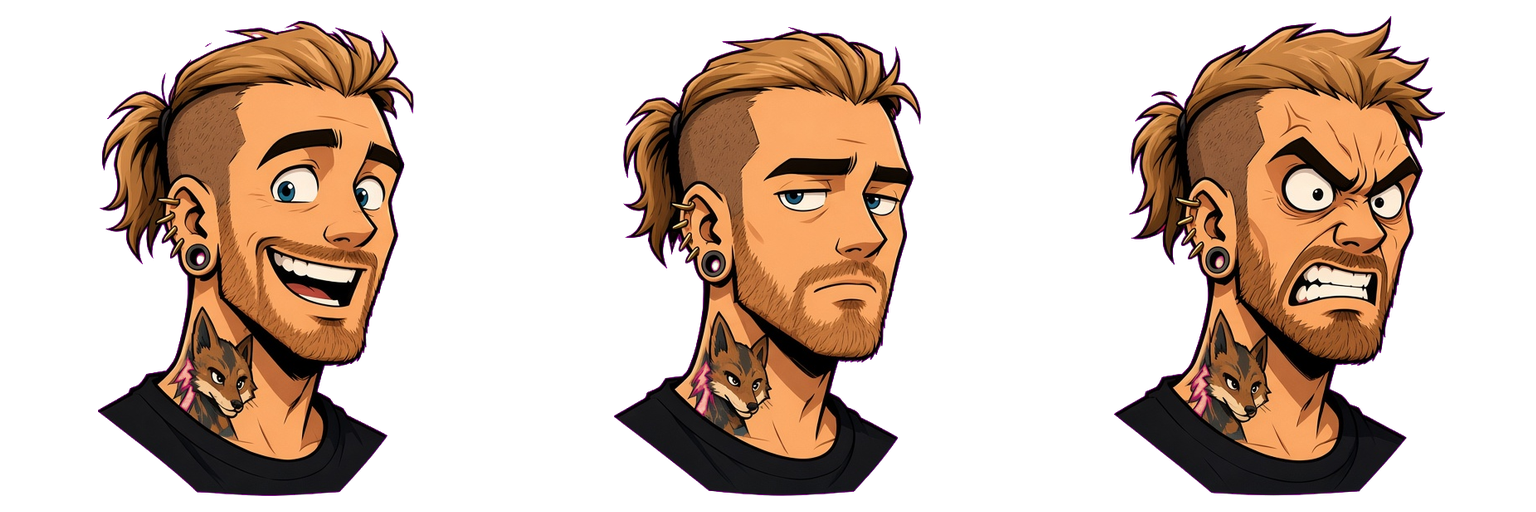
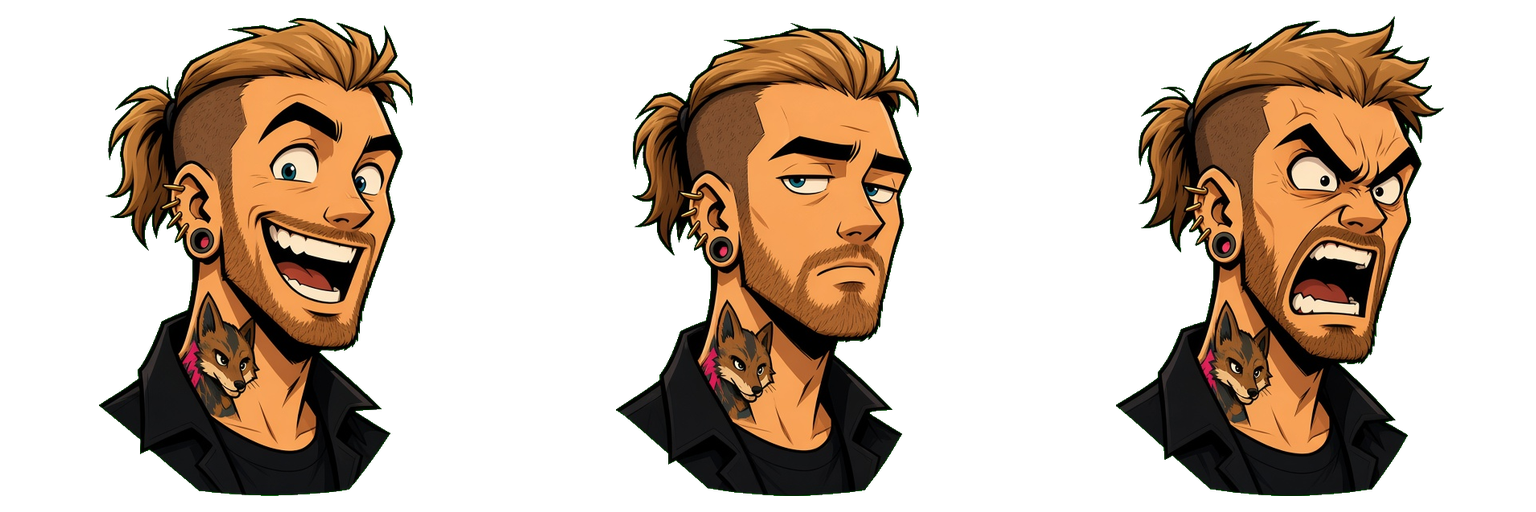
Cast portraits cut to clean 512px sheets; importer handles touching panels; handoff links sprite list
Claude-Session: https://claude.ai/code/session_01V3sbxJtEx6a4qqJi7wR7kL

Changed region(s): [[0.0625, 0.0312, 0.2812, 0.9688], [0.7188, 0.0312, 0.9375, 0.9688], [0.375, 0.0312, 0.625, 0.9688]]

diff --git a/tools/import_portrait.py b/tools/import_portrait.py
@@ -6,7 +6,7 @@ transparent, equal-cell PNG sheet for the dialogue box.
 - background colour is read from the image corners (works for magenta, purple, green...)
 - JPG fringe: pixels close to the background become transparent; edge pixels get the background
   tint pulled out (despill)
-- panels are found by empty background columns, trimmed, and centred into equal square cells
+- panels are found by empty background columns (equal slices if they touch), trimmed, and centred into equal square cells
   sharing one scale (so every expression has the same head size)
 Output: assets/art/portraits_hd/<name>.png  (N cells wide, 1 cell tall)
 """
@@ -17,7 +17,35 @@ from PIL import Image
 OUT = Path(__file__).resolve().parent.parent / "assets" / "art" / "portraits_hd"
 
 
-def run(src, name, cell, margin):
+def keep_largest(img):
+    """Drop alpha islands other than the biggest one (stray hair from a neighbouring panel)."""
+    w, h = img.size
+    a = img.getchannel("A").load()
+    seen = [[False] * w for _ in range(h)]
+    best = []
+    for sy in range(h):
+        for sx in range(w):
+            if seen[sy][sx] or a[sx, sy] == 0:
+                continue
+            stack, comp = [(sx, sy)], []
+            seen[sy][sx] = True
+            while stack:
+                x, y = stack.pop()
+                comp.append((x, y))
+                for nx, ny in ((x + 1, y), (x - 1, y), (x, y + 1), (x, y - 1)):
+                    if 0 <= nx < w and 0 <= ny < h and not seen[ny][nx] and a[nx, ny] > 0:
+                        seen[ny][nx] = True
+                        stack.append((nx, ny))
+            if len(comp) > len(best):
+                best = comp
+    out = Image.new("RGBA", (w, h), (0, 0, 0, 0))
+    src, dst = img.load(), out.load()
+    for x, y in best:
+        dst[x, y] = src[x, y]
+    return out
+
+
+def run(src, name, cell, margin, count=3):
     im = Image.open(src).convert("RGB")
     W, H = im.size
     px = im.load()
@@ -54,9 +82,12 @@ def run(src, name, cell, margin):
             if x - start > 40:
                 panels.append((start, x))
             start = None
+    if len(panels) != count:
+        # panels touch (hair overlapping): fall back to equal slices
+        panels = [(round(i * W / count), round((i + 1) * W / count)) for i in range(count)]
     crops = []
     for x0, x1 in panels:
-        c = rgba.crop((x0, 0, x1, H))
+        c = keep_largest(rgba.crop((x0, 0, x1, H)))
         crops.append(c.crop(c.getchannel("A").getbbox()))
     biggest = max(max(c.width, c.height) for c in crops)
     scale = (cell - 2 * margin) / biggest
@@ -76,5 +107,6 @@ if __name__ == "__main__":
     ap.add_argument("name")
     ap.add_argument("--cell", type=int, default=512)
     ap.add_argument("--margin", type=int, default=16)
+    ap.add_argument("--count", type=int, default=3, help="expressions in the strip")
     a = ap.parse_args()
-    run(a.src, a.name, a.cell, a.margin)
+    run(a.src, a.name, a.cell, a.margin, a.count)

diff --git a/CLAUDE.md b/CLAUDE.md
@@ -75,6 +75,20 @@ landscape (HD chibi pixel art since Nov 7; was 480×270). Owner: Duff. Read this
   **Next:** native-res dialogue layer so these keep their lines, then swap them in for `portrait_duff`.
   The walking sprite should be updated to match (undercut/ponytail, black tee).
 
+- **Production list (Nov 7, made by another agent):** Google Sheet "DuffQuest — Full sprite list
+  (Sea of Stars + Hazbin)" https://docs.google.com/spreadsheets/d/1nQ9h_KqccoSbITQw3A6a8Oh5zX7YyHh33gvkr1L62Aw/edit
+  223 rows: all 131 manifest ids + 92 new (59 HD portraits, 17 boss splashes, 13 storefronts, trees,
+  clutter, style board), each with a ready-to-paste Grok prompt (column F), priority, status.
+  Tab 1 holds the approved likenesses (Duff, Madison, Brittany, Octavia) and open questions.
+  Style boards 1–3 generated, **awaiting Duff's pick**. Treat this sheet as the art to-do list.
+- **Approved cast portraits (Nov 7):** PR #3 (Cursor, merged) put 4 green-screen sheets in
+  `duffquesthd/portraits/` (Duff v3 with jacket, Madison, Octavia, Brittany). Cut with
+  `tools/import_portrait.py` (now: equal-slice fallback + keep-largest-island) ->
+  `assets/art/portraits_hd/{duff,madison,octavia,brittany}.png`, 3×512 cells each
+  (happy / deadpan / furious). Not wired in yet: needs the native-res dialogue layer.
+  Known nits: Brittany and Madison share one face template (hair/clothes swap); Octavia's furious
+  eyes go pink; check Madison's eye colour stays brown.
+
 ## Next (Duff's asks)
 - When Grok art lands in the Drive inbox: pull it (subagent; Drive returns big base64), clean
   to the grid (magenta key, nearest downscale, palette quantize), composite storefront facades onto
